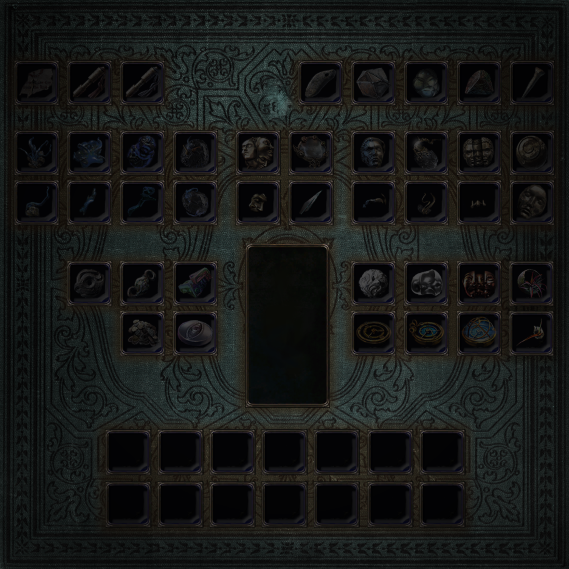
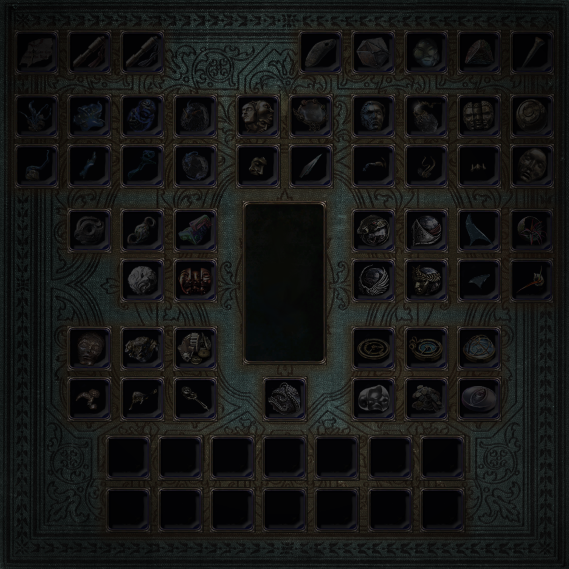
Added Delirium and Blight stash tabs. Updated stash tab backgrounds.

diff --git a/react-src/components/stash-display/StashDisplay.tsx b/react-src/components/stash-display/StashDisplay.tsx
@@ -1,7 +1,9 @@
 import * as React from 'react';
 import { connect } from 'react-redux';
 import { IBaseItem } from '../../models/items/IBaseItem';
+import { isIBlightTab } from '../../models/stash-tabs/IBlightTab';
 import { isICurrencyTab } from '../../models/stash-tabs/ICurrencyTab';
+import { isIDeliriumTab } from '../../models/stash-tabs/IDeliriumTab';
 import { isIDelveTab } from '../../models/stash-tabs/IDelveTab';
 import { isIDivinationTab } from '../../models/stash-tabs/IDivinationTab';
 import { isIEssenceTab } from '../../models/stash-tabs/IEssenceTab';
@@ -26,6 +28,8 @@ const NORMAL_STASH_ITEM_SIZE: number = 45;
 const NORMAL_STASH_DIVIDER_SIZE: number = 2.5;
 const QUAD_STASH_ITEM_SIZE: number = 22;
 const QUAD_STASH_DIVIDER_SIZE: number = 1.7;
+const DELVE_CELL_SIZE: number = 42;
+const BLIGHT_CELL_SIZE: number = 38;
 
 const mapStateToProps = (state: IAppState, props: any) => ({
   browseCategory: state.activeAccount.uiState.browsePageState.browseCategory,
@@ -83,6 +87,8 @@ class StashDisplay extends React.Component<IStashDisplayProps, {}> {
       case StashTypes.ESSENCE:
       case StashTypes.CURRENCY:
       case StashTypes.FRAGMENT:
+      case StashTypes.BLIGHT:
+      case StashTypes.DELIRIUM:
         const layout: ITabLayout = this.getStashTabLayout();
         const itemPosition: ITabLayoutItem = layout[item.x];
         left = itemPosition.x;
@@ -107,6 +113,10 @@ class StashDisplay extends React.Component<IStashDisplayProps, {}> {
       case StashTypes.ESSENCE:
       case StashTypes.CURRENCY:
         return OTHER_TAB_SIZE;
+      case StashTypes.DELVE:
+        return DELVE_CELL_SIZE;
+      case StashTypes.BLIGHT:
+        return BLIGHT_CELL_SIZE;
       case StashTypes.NORMAL:
       default:
         return CELL_SIZE;
@@ -121,6 +131,8 @@ class StashDisplay extends React.Component<IStashDisplayProps, {}> {
     if (isICurrencyTab(stashTab)) { return stashTab.currencyLayout; }
     if (isIFragmentTab(stashTab)) { return stashTab.fragmentLayout; }
     if (isIDelveTab(stashTab)) { return stashTab.delveLayout; }
+    if (isIBlightTab(stashTab)) { return stashTab.blightLayout; }
+    if (isIDeliriumTab(stashTab)) { return stashTab.deliriumLayout; }
     return null;
   }
 
@@ -155,6 +167,8 @@ class StashDisplay extends React.Component<IStashDisplayProps, {}> {
     if (isIEssenceTab(stashTab)) { return StashTypes.ESSENCE; }
     if (isIFragmentTab(stashTab)) { return StashTypes.FRAGMENT; }
     if (isIDelveTab(stashTab)) { return StashTypes.DELVE; }
+    if (isIBlightTab(stashTab)) { return StashTypes.BLIGHT; }
+    if (isIDeliriumTab(stashTab)) { return StashTypes.DELIRIUM; }
     return StashTypes.NORMAL;
   }
 
@@ -173,6 +187,10 @@ class StashDisplay extends React.Component<IStashDisplayProps, {}> {
         return 'tab fragment';
       case StashTypes.DELVE:
         return 'tab delve';
+      case StashTypes.BLIGHT:
+        return 'tab blight';
+      case StashTypes.DELIRIUM:
+        return 'tab delirium';
       case StashTypes.NORMAL:
       default:
         return 'tab';

diff --git a/react-src/components/stash-display/stash-display.scss b/react-src/components/stash-display/stash-display.scss
@@ -16,6 +16,8 @@ $images-path: "../../assets/images/stash";
     &.essence { background-image: url("#{$images-path}/EssenceStashPanelGrid.png"); }
     &.fragment { background-image: url("#{$images-path}/StashPanelFragment.png"); }
     &.delve { background-image: url("#{$images-path}/StashPanelDelve.png"); }
+    &.blight { background-image: url("#{$images-path}/BlightTabBackground.png"); }
+    &.delirium { background-image: url("#{$images-path}/DeliriumTabBackground.png"); }
 
     &.divination {
       background-image: unset;

diff --git a/react-src/models/stash-tabs/IDeliriumTab.ts b/react-src/models/stash-tabs/IDeliriumTab.ts
@@ -1,0 +1,11 @@
+import { IStashTab } from './IStashTab';
+import { ITabLayout } from './ITabLayout';
+
+export interface IDeliriumTab extends IStashTab {
+  deliriumLayout: ITabLayout;
+}
+
+/** IDeliriumTab type guard */
+export function isIDeliriumTab(o: any): o is IDeliriumTab {
+  return (o as IDeliriumTab).deliriumLayout !== undefined;
+}

diff --git a/react-src/models/stash-tabs/IBlightTab.ts b/react-src/models/stash-tabs/IBlightTab.ts
@@ -1,0 +1,11 @@
+import { IStashTab } from './IStashTab';
+import { ITabLayout } from './ITabLayout';
+
+export interface IBlightTab extends IStashTab {
+  blightLayout: ITabLayout;
+}
+
+/** IBlightTab type guard */
+export function isIBlightTab(o: any): o is IBlightTab {
+  return (o as IBlightTab).blightLayout !== undefined;
+}

diff --git a/react-src/models/stash-tabs/StashTypes.ts b/react-src/models/stash-tabs/StashTypes.ts
@@ -7,4 +7,6 @@ export const enum StashTypes {
   CHARACTER,
   NORMAL,
   DELVE,
+  BLIGHT,
+  DELIRIUM,
 }
